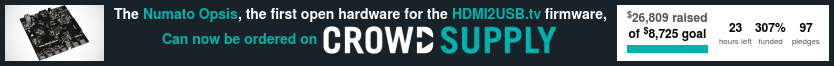
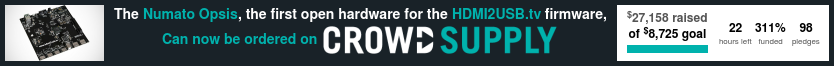
Converted https://github.com/timvideos/planet/commit/1f73de640630e3e76129ee80835df232d3fd3354

Changed region(s): [[0.7482, 0.1818, 0.8106, 0.3333], [0.8729, 0.3333, 0.9353, 0.4848], [0.9664, 0.3333, 0.9976, 0.4848]]

diff --git a/numato-opsis-crowdfunding-campaign-master/badge.html b/numato-opsis-crowdfunding-campaign-master/badge.html
@@ -22,25 +22,25 @@
 
 <div class="project-block">
 <div class="project-funds"><p class="project-pledged">
-<span><sup>$</sup>26,809</span> raised
+<span><sup>$</sup>27,158</span> raised
   </p>
 <p class="project-goal">
     of <span><sup>$</sup>8,725</span> goal
   </p>
 <div class="progress">
-<div class="progress-bar" style="width: 307.2664756446991404011461318%"></div>
+<div class="progress-bar" style="width: 311.2664756446991404011461318%"></div>
 </div>
 </div><div class="factoids">
 <div class="fact" data-countdown-to="2015-10-27T00:00:00">
-<p>23</p>
+<p>22</p>
 <span>hours left</span>
 </div>
 <div class="fact">
-<p>307<sup>%</sup></p>
+<p>311<sup>%</sup></p>
 <span>funded</span>
 </div>
 <div class="fact">
-<p>97</p>
+<p>98</p>
 <span>pledges</span>
 </div>
 </div>
